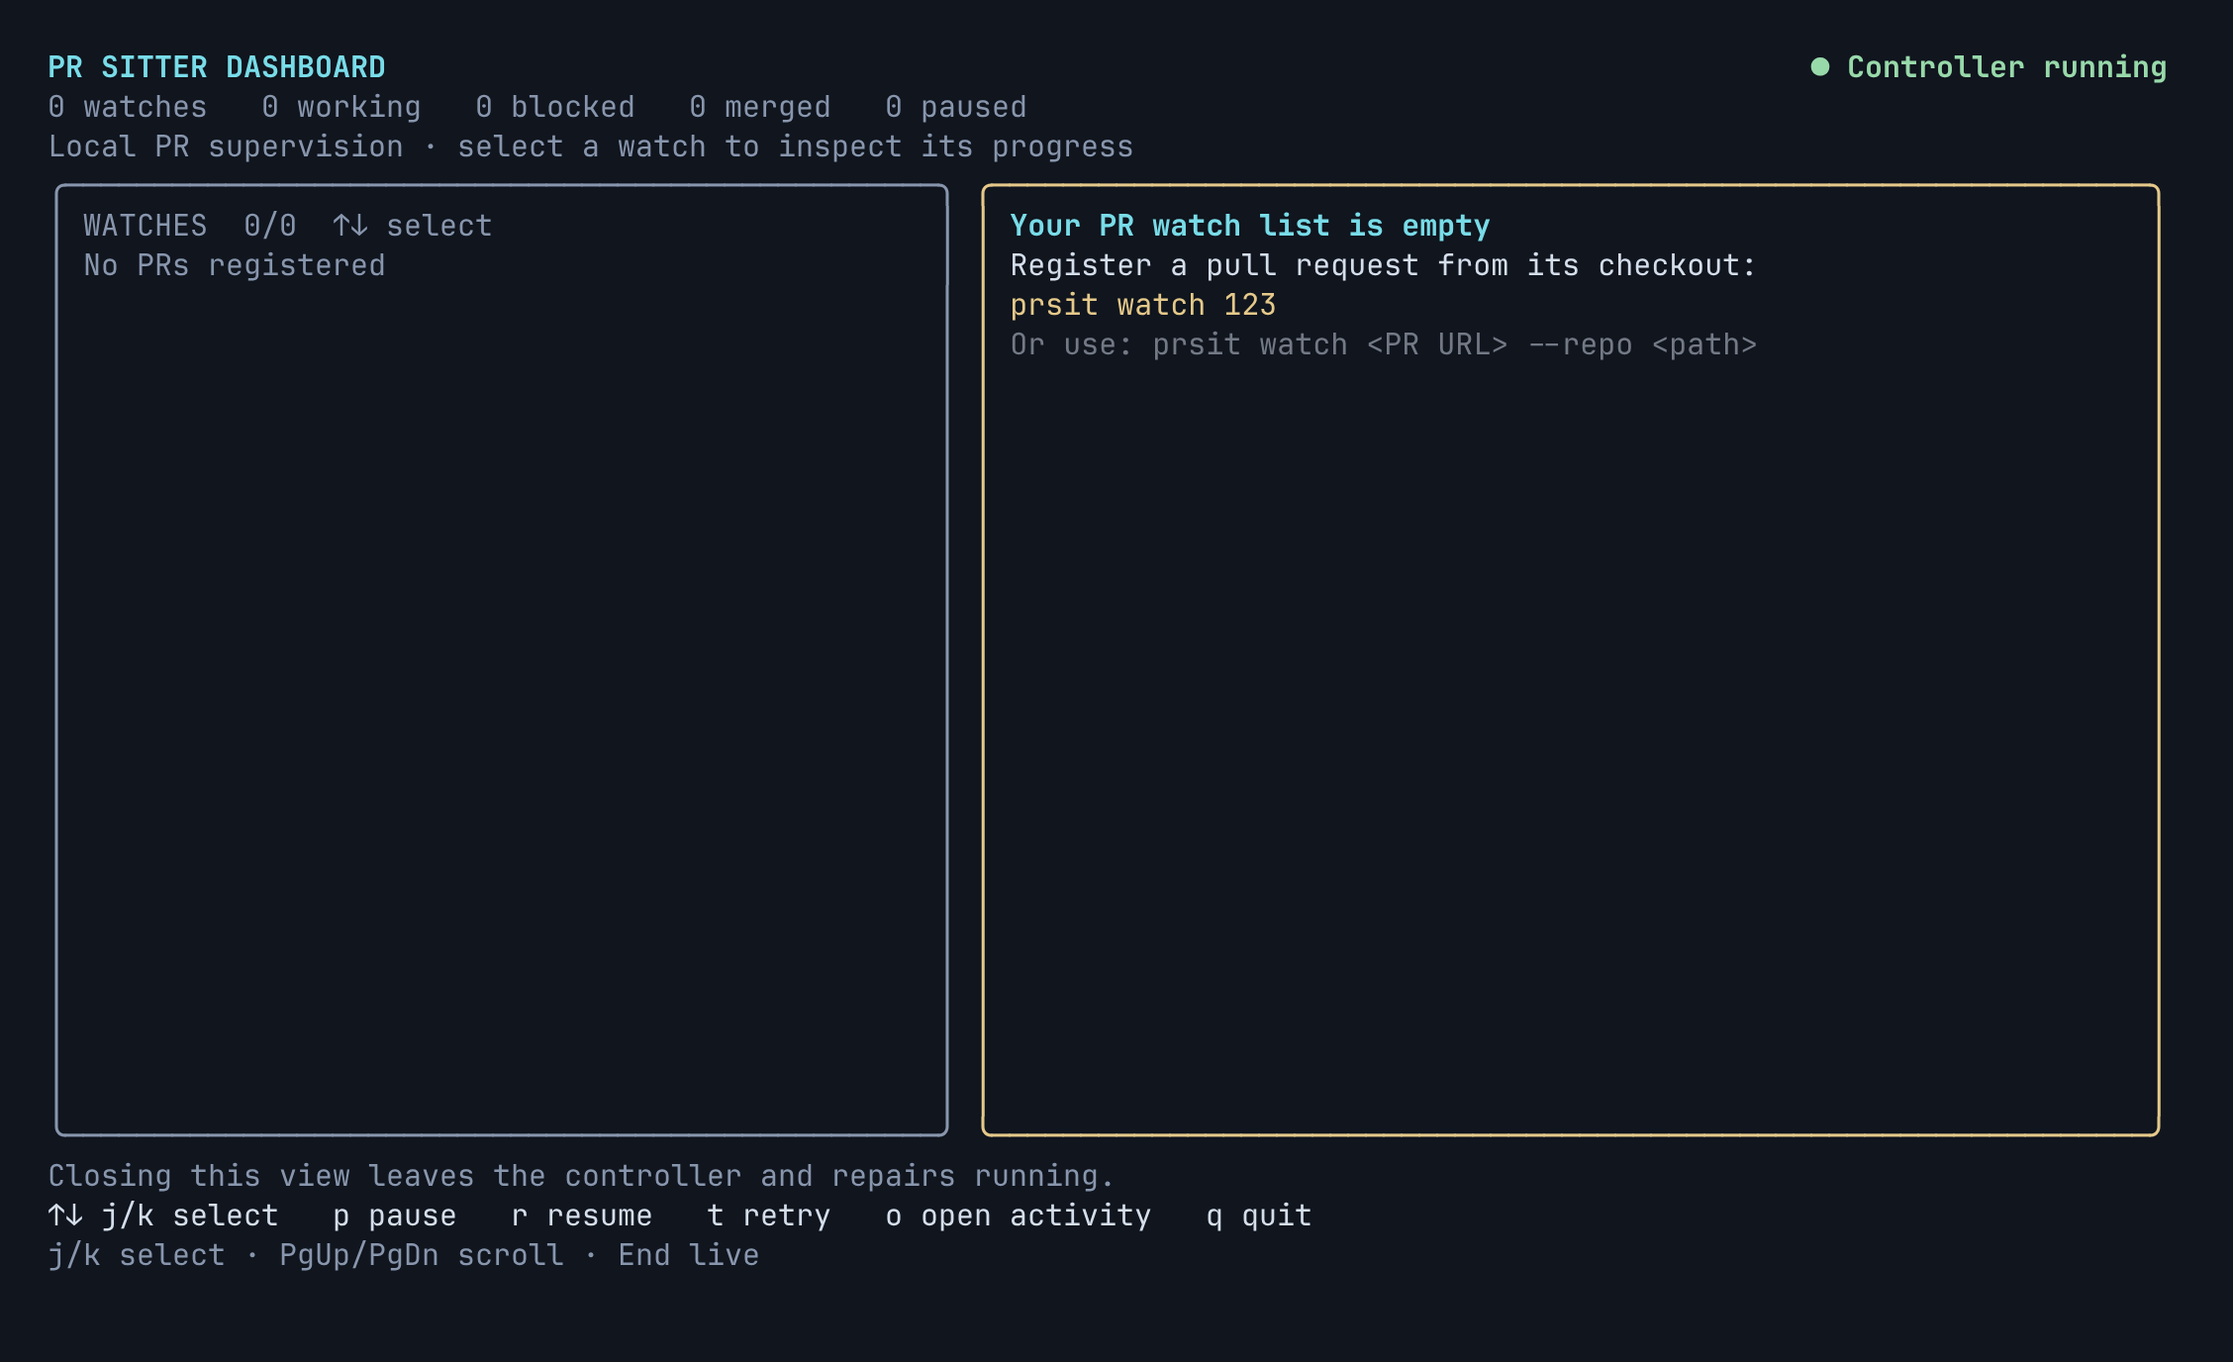
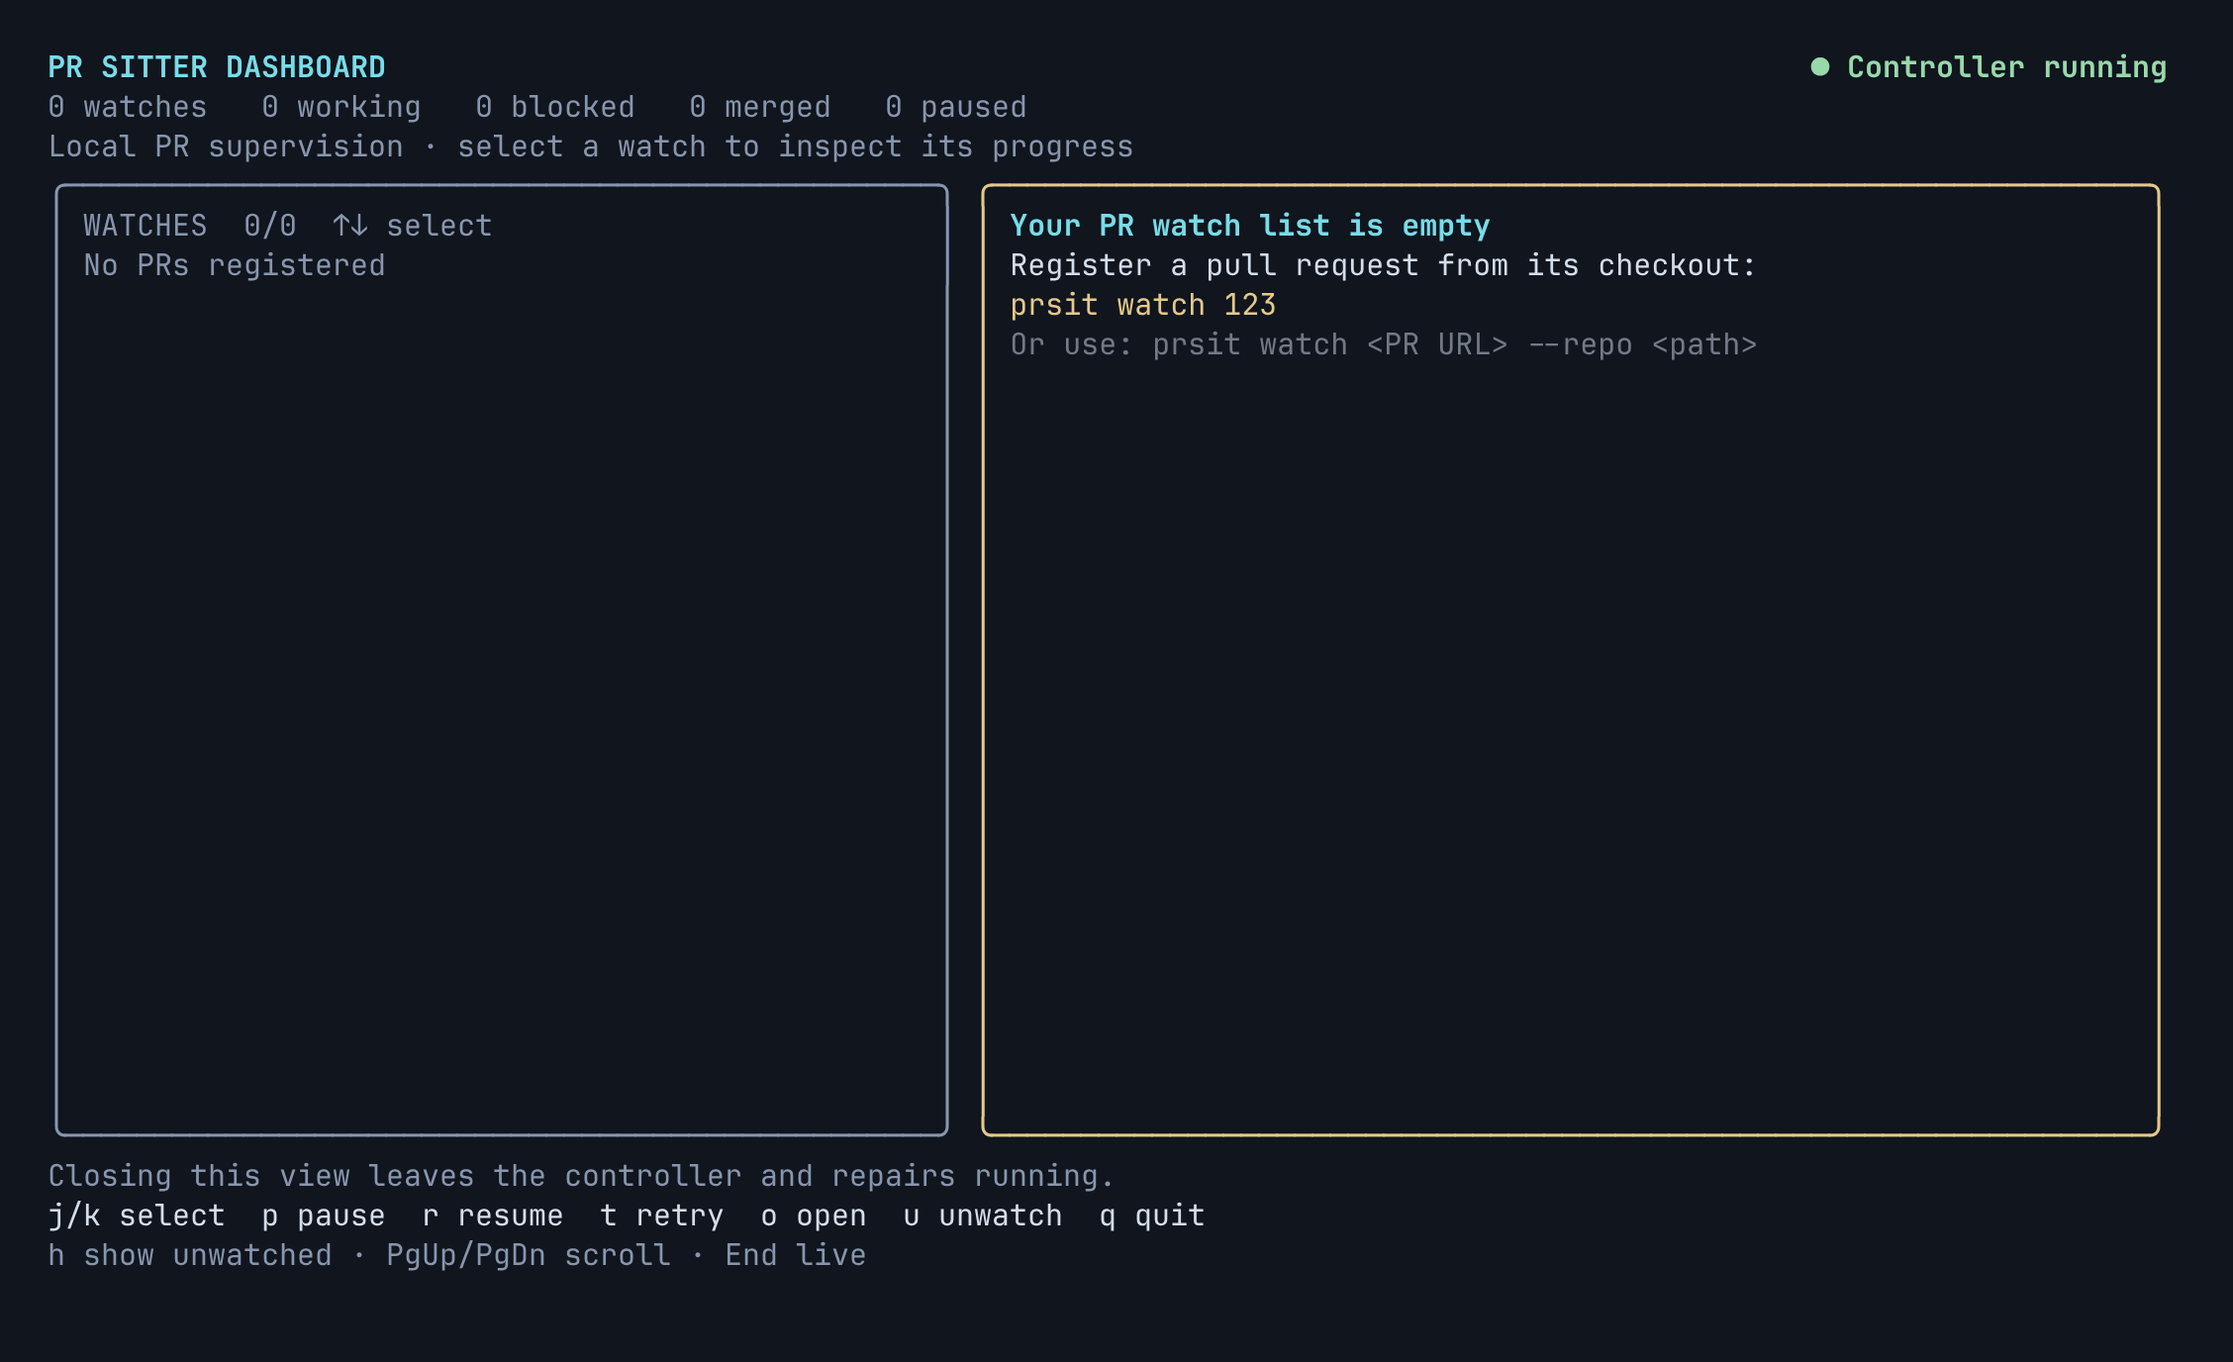
Add dashboard unwatch control and history toggle

Changed region(s): [[0.031, 0.875, 0.5895, 0.9375]]

diff --git a/src/dashboard-ui.tsx b/src/dashboard-ui.tsx
@@ -80,6 +80,13 @@ export function activityOffset(
   return logRows ? Math.max(0, Math.min(offset, state.logs.length - logRows)) : 0;
 }
 
+// Keep the per-PR activity view available after unwatching; only the board filters history.
+export function dashboardEntries(state: DashboardState) {
+  return state.watchOnly || state.showUnwatched
+    ? state.entries
+    : state.entries.filter((entry) => entry.control?.mode !== "removed");
+}
+
 export function Dashboard({
   state,
   columns = 100,
@@ -101,11 +108,16 @@ export function Dashboard({
     detailHeight,
     logRows,
   } = dashboardLayout(state.watchOnly, columns, rows);
+  const entries = dashboardEntries(state);
+  const hiddenCount = state.entries.length - entries.length;
+  const historyHint = state.watchOnly
+    ? ""
+    : `h ${state.showUnwatched ? "hide" : "show"} unwatched${hiddenCount ? ` (${hiddenCount})` : ""}`;
   const selectedIndex = Math.max(
     0,
-    state.entries.findIndex((entry) => entry.watch.id === state.selected),
+    entries.findIndex((entry) => entry.watch.id === state.selected),
   );
-  const selected = state.entries[selectedIndex];
+  const selected = entries[selectedIndex];
   const title = state.watchOnly ? "PR ACTIVITY" : "PR SITTER DASHBOARD";
   if (compact) {
     const lines = [
@@ -113,12 +125,15 @@ export function Dashboard({
       `Controller ${state.running ? "running" : "STOPPED"}`,
       selected
         ? `#${selected.watch.number} ${selected.watch.owner}/${selected.watch.repo}`
-        : "No PRs registered",
+        : hiddenCount
+          ? "No watched PRs"
+          : "No PRs registered",
       selected ? presentation(selected, state.running).stage : "prsit watch <PR URL> --repo <path>",
       selected?.state?.message ?? "",
       "Enlarge pane for details and activity.",
       "j/k select  p pause  r resume  t retry",
       "o open  q quit",
+      `u unwatch  ${historyHint}`,
       state.message,
     ];
     return (
@@ -134,7 +149,7 @@ export function Dashboard({
   const visibleCount = Math.max(1, Math.floor((listHeight - 3) / 2));
   const start = Math.max(
     0,
-    Math.min(selectedIndex - Math.floor(visibleCount / 2), state.entries.length - visibleCount),
+    Math.min(selectedIndex - Math.floor(visibleCount / 2), entries.length - visibleCount),
   );
   const stage = selected ? presentation(selected, state.running) : undefined;
   const stageColor =
@@ -143,8 +158,8 @@ export function Dashboard({
       : stage?.stage === "paused" || stage?.stage === "unwatched"
         ? "gray"
         : colors[stage?.semantic ?? "idle"];
-  const stages = state.entries.map((entry) => presentation(entry, state.running));
-  const counts = `${state.entries.length} watches   ${stages.filter((s) => s.semantic === "working").length} working   ${stages.filter((s) => s.stage === "blocked").length} blocked   ${stages.filter((s) => s.stage === "merged").length} merged   ${stages.filter((s) => s.stage === "paused").length} paused`;
+  const stages = entries.map((entry) => presentation(entry, state.running));
+  const counts = `${entries.length} watches   ${stages.filter((s) => s.semantic === "working").length} working   ${stages.filter((s) => s.stage === "blocked").length} blocked   ${stages.filter((s) => s.stage === "merged").length} merged   ${stages.filter((s) => s.stage === "paused").length} paused`;
   const innerWidth = Math.max(1, detailWidth - 4);
   const offset = activityOffset(state, columns, rows);
   const logEnd = state.logs.length - offset;
@@ -188,9 +203,11 @@ export function Dashboard({
             <Line
               width={listWidth - 4}
               color={colors.muted}
-            >{`WATCHES  ${state.entries.length ? selectedIndex + 1 : 0}/${state.entries.length}  ↑↓ select`}</Line>
-            {!state.entries.length && <Text color="gray">No PRs registered</Text>}
-            {state.entries.slice(start, start + visibleCount).map((entry) => {
+            >{`WATCHES  ${entries.length ? selectedIndex + 1 : 0}/${entries.length}  ↑↓ select`}</Line>
+            {!entries.length && (
+              <Text color="gray">{hiddenCount ? "No watched PRs" : "No PRs registered"}</Text>
+            )}
+            {entries.slice(start, start + visibleCount).map((entry) => {
               const active = entry.watch.id === selected?.watch.id;
               const status = presentation(entry, state.running);
               const label = fit(
@@ -266,8 +283,11 @@ export function Dashboard({
           ) : (
             <>
               <Text bold color="cyan">
-                Your PR watch list is empty
+                {hiddenCount ? "All PRs are unwatched" : "Your PR watch list is empty"}
               </Text>
+              {hiddenCount > 0 && (
+                <Text>Press h to show unwatched history; r resumes a selected PR.</Text>
+              )}
               <Text>Register a pull request from its checkout:</Text>
               <Text color="yellow">prsit watch 123</Text>
               <Text dimColor>Or use: prsit watch &lt;PR URL&gt; --repo &lt;path&gt;</Text>
@@ -281,10 +301,12 @@ export function Dashboard({
       <Line width={width}>
         {width < 75
           ? "p pause  r resume  t retry  o open  q quit"
-          : "↑↓ j/k select   p pause   r resume   t retry   o open activity   q quit"}
+          : "j/k select  p pause  r resume  t retry  o open  u unwatch  q quit"}
       </Line>
       <Line width={width} color={colors.muted}>
-        {"j/k select · PgUp/PgDn scroll · End live"}
+        {width < 75
+          ? `u unwatch  ${historyHint}`
+          : `${historyHint}${historyHint ? " · " : ""}PgUp/PgDn scroll · End live`}
       </Line>
     </Box>
   );

diff --git a/src/dashboard.ts b/src/dashboard.ts
@@ -1,4 +1,4 @@
-import { activityOffset, dashboardTerminal } from "./dashboard-ui.js";
+import { activityOffset, dashboardEntries, dashboardTerminal } from "./dashboard-ui.js";
 export { renderDashboard } from "./dashboard-ui.js";
 import { open } from "node:fs/promises";
 import { join } from "node:path";
@@ -29,6 +29,7 @@ export interface DashboardState {
   message: string;
   watchOnly?: boolean;
   logOffset?: number;
+  showUnwatched?: boolean;
 }
 export async function recentActivity(w: Watch, count = 12): Promise<string[]> {
   try {
@@ -85,6 +86,14 @@ export async function dashboard(watch?: Watch) {
   const clampScroll = (offset = state.logOffset ?? 0) => {
     state.logOffset = activityOffset(state, process.stdout.columns, process.stdout.rows, offset);
   };
+  const reconcileSelection = () => {
+    const entries = dashboardEntries(state);
+    if (!entries.some((entry) => entry.watch.id === state.selected)) {
+      state.selected = entries[0]?.watch.id;
+      state.logOffset = 0;
+      state.logs = [];
+    }
+  };
   const keypress = (input: string, inkKey: import("ink").Key) => {
     const key = {
       name: inkKey.upArrow ? "up" : inkKey.downArrow ? "down" : input,
@@ -100,24 +109,31 @@ export async function dashboard(watch?: Watch) {
       stop();
       return;
     }
+    if (key.name === "h" && !state.watchOnly) {
+      state.showUnwatched = !state.showUnwatched;
+      reconcileSelection();
+      view?.update();
+      return;
+    }
+    const entries = dashboardEntries(state);
     const index = Math.max(
       0,
-      state.entries.findIndex((e) => e.watch.id === state.selected),
+      entries.findIndex((e) => e.watch.id === state.selected),
     );
     if (["up", "k", "down", "j"].includes(key.name ?? "")) {
       const next = Math.max(
         0,
-        Math.min(state.entries.length - 1, index + (["up", "k"].includes(key.name!) ? -1 : 1)),
+        Math.min(entries.length - 1, index + (["up", "k"].includes(key.name!) ? -1 : 1)),
       );
-      state.selected = state.entries[next]?.watch.id;
+      state.selected = entries[next]?.watch.id;
       state.logs = [];
       state.logOffset = 0;
       view?.update();
       return;
     }
-    if (["p", "r", "t", "o"].includes(key.name ?? "") && !action && state.entries[index]) {
+    if (["p", "r", "t", "o", "u"].includes(key.name ?? "") && !action && entries[index]) {
       // Pin the watch at keypress time; a refresh must not redirect an action.
-      action = { watch: state.entries[index].watch, key: key.name! };
+      action = { watch: entries[index].watch, key: key.name! };
     }
   };
   const wasRaw = process.stdin.isRaw;
@@ -140,7 +156,7 @@ export async function dashboard(watch?: Watch) {
             if (pending.key === "o") await openView(pending.watch, await viewWorkspace());
             else {
               const command = (
-                { p: "pause", r: "resume", t: "retry" } as Record<string, WatchAction>
+                { p: "pause", r: "resume", t: "retry", u: "unwatch" } as Record<string, WatchAction>
               )[pending.key];
               await controlWatch(pending.watch, command);
               state.message = `${command} requested for ${pending.watch.owner}/${pending.watch.repo} #${pending.watch.number}`;
@@ -153,11 +169,7 @@ export async function dashboard(watch?: Watch) {
         list.sort((a, b) => a.created - b.created || a.id.localeCompare(b.id));
         state.entries = await Promise.all(list.map(watchSnapshot));
         state.running = await ping();
-        if (!state.entries.some((e) => e.watch.id === state.selected)) {
-          state.selected = state.entries[0]?.watch.id;
-          state.logOffset = 0;
-          state.logs = [];
-        }
+        reconcileSelection();
         const selected = state.entries.find((e) => e.watch.id === state.selected);
         const logs = selected ? await recentActivity(selected.watch, 1000) : [];
         // Keep a scrolled view anchored when new lines arrive. End resumes live following.

diff --git a/scripts/dashboard-pty-smoke.py b/scripts/dashboard-pty-smoke.py
@@ -36,6 +36,10 @@ with tempfile.TemporaryDirectory(prefix='prsit-dashboard-pty-') as tmp:
         os.write(master,b'p');until(lambda:control().get('mode')=='paused','pause did not apply')
         os.write(master,b'r');until(lambda:control().get('mode')=='running','resume did not apply')
         os.write(master,b't');until(lambda:'retryAt' in control(),'retry did not apply')
+        os.write(master,b'u');until(lambda:control().get('mode')=='removed','unwatch did not apply')
+        until(lambda:b'All PRs are unwatched' in output,'unwatched PR was not hidden')
+        os.write(master,b'h');until(lambda:b'UNWATCHED' in output,'history did not reveal the PR')
+        os.write(master,b'r');until(lambda:control().get('mode')=='running','resume from history did not apply')
         fcntl.ioctl(master,termios.TIOCSWINSZ,struct.pack('HHHH',24,72,0,0))
         process.send_signal(signal.SIGWINCH)
         mode=sys.argv[1] if len(sys.argv)>1 else 'quit'
@@ -44,7 +48,7 @@ with tempfile.TemporaryDirectory(prefix='prsit-dashboard-pty-') as tmp:
         until(lambda:process.poll() is not None,'quit did not exit')
         assert process.returncode==0
         assert b'\x1b[?25h' in output and b'\x1b[?1049l' in output,'terminal was not restored'
-        print('PTY smoke passed: render, stopped status, pause, resume, retry, quit, cursor/screen restoration; local fixture only.')
+        print('PTY smoke passed: render, stopped status, pause, resume, retry, unwatch, history, quit, cursor/screen restoration; local fixture only.')
     finally:
         if process.poll() is None:
             process.terminate()

diff --git a/README.md b/README.md
@@ -73,20 +73,22 @@ herdr plugin action invoke herdr-prsit.dashboard
 
 The dashboard lists watches and their stages, shows the selected PR's status message, repair worktree, and recent activity, and refreshes automatically. It uses Ink for incremental terminal rendering, with highlighted selection, coloured stages, and a controller-health header. Wide panes show the watch list beside the selected PR; narrower panes stack them, and very small panes show a compact summary. The per-PR activity view uses the same interface. Stage text remains readable with `NO_COLOR=1`. Its controls are:
 
-| Key                     | Action                                                 |
-| ----------------------- | ------------------------------------------------------ |
-| `↑` / `↓` or `j` / `k`  | Select a PR                                            |
-| `p`                     | Pause the selected watch                               |
-| `r`                     | Resume its checkpointed work                           |
-| `t`                     | Request retry using the existing blocked-work protocol |
-| `o`                     | Focus or reopen its activity pane                      |
-| `Page Up` / `Page Down` | Scroll recent activity in five-line steps              |
-| `End`                   | Return to following live activity                      |
-| `q` / `Ctrl+C`          | Close this view; leave the controller running          |
+| Key                     | Action                                                   |
+| ----------------------- | -------------------------------------------------------- |
+| `↑` / `↓` or `j` / `k`  | Select a PR                                              |
+| `p`                     | Pause the selected watch                                 |
+| `r`                     | Resume its checkpointed work                             |
+| `t`                     | Request retry using the existing blocked-work protocol   |
+| `o`                     | Focus or reopen its activity pane                        |
+| `u`                     | Unwatch the selected PR; retain its history and worktree |
+| `h`                     | Show or hide unwatched PRs in the dashboard              |
+| `Page Up` / `Page Down` | Scroll recent activity in five-line steps                |
+| `End`                   | Return to following live activity                        |
+| `q` / `Ctrl+C`          | Close this view; leave the controller running            |
 
 Activity scrolling is bounded to the latest 32 KiB / 1,000 lines of the selected watch’s log. Selecting a different PR resets to live activity. For complete history, use `prsit logs`.
 
-Use `prsit watch` to register new PRs and `prsit unwatch` to remove them. There is no merge button or second repair engine in the dashboard. All controls use the same local state as the CLI. A dashboard opened while the controller is stopped can queue pause/resume/retry controls, but work only progresses when the controller runs.
+Use `prsit watch` to register new PRs. Press `u` in the dashboard (or use `prsit unwatch`) to stop watching the selected PR. Unwatched PRs are hidden by default; press `h` to show their history, then `r` to resume a selected watch. The history toggle lasts for the current dashboard session. Per-PR activity panes remain visible until closed. There is no merge button or second repair engine in the dashboard. All controls use the same local state as the CLI. A dashboard opened while the controller is stopped can queue pause/resume/retry controls, but work only progresses when the controller runs.
 
 The plugin's manifest is `herdr-plugin.toml`; it declares controller, dashboard, and per-PR pane entrypoints and two menu actions. It adds no startup daemon or hosted service. Plugin and CLI share `$PRSIT_HOME` (or the usual default), Pi credentials, and existing watch history. For a custom state directory, launch the plugin actions with the same `PRSIT_HOME` as the controller; menu actions use the environment inherited by Herdr. Background UI errors retry independently of runtime supervision. Closing a PR pane removes its sidebar entry; `prsit open` brings it back. After restarting Herdr, restart `prsit run` to restore monitoring and views.
 
